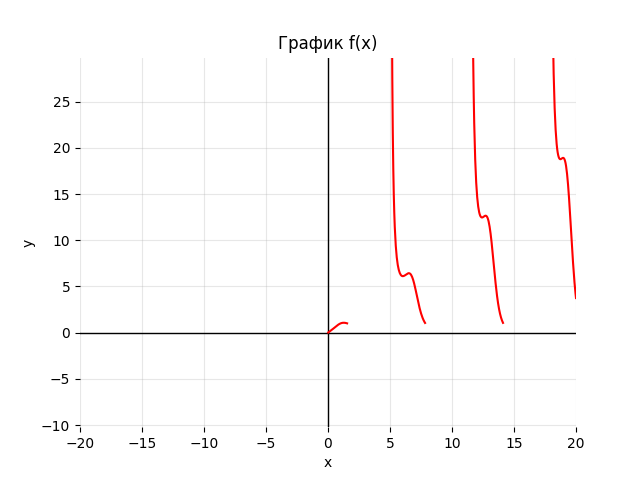
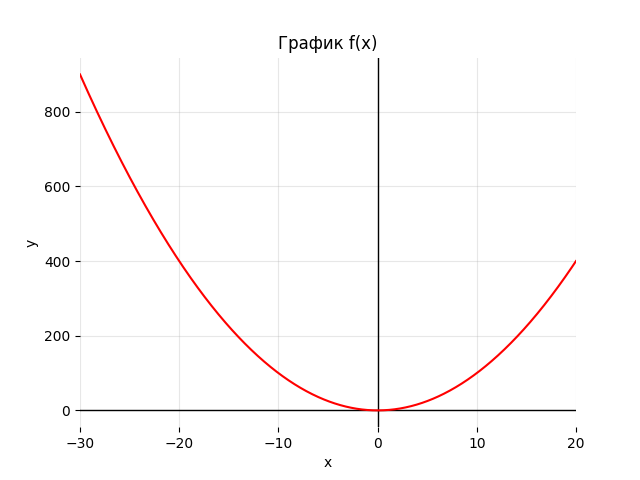
Настройки в json
сделал настройки в json файле, хочу исправить наличие лишнего user_data, который можно объединить с файлом настроек пользователей.

diff --git a/bot.py b/bot.py
@@ -9,6 +9,7 @@ import numpy as np
 from src.graph.graph import parse, validate, dichotomy_max, dichotomy_min, graph as build_graph, simple_graph
 import src.graph.graph as graph_module
 from logger import logger
+import json
 
 #===УСЛОВНЫЙ SETUP======================================================================================================
 
@@ -39,7 +40,23 @@ pictures_dir = os.path.dirname(os.path.abspath(__file__))
 user_data = {}
 
 # Настройки пользователя, структура: {chat_id: {'default_a': -20, 'default_b': 10}}
-user_settings = {}
+SETTINGS_FILE = os.path.join(BASE_DIR, "user_settings.json")
+
+def load_settings():
+    if os.path.exists(SETTINGS_FILE):
+        try:
+            with open(SETTINGS_FILE, "r") as f:
+                return json.load(f)
+        except:
+            return {}
+    return {}
+
+def save_settings_file():
+    with open(SETTINGS_FILE, "w") as f:
+        json.dump(user_settings, f, indent=4)
+
+# Загружаем настройки при запуске
+user_settings = load_settings()
 
 # Стартовые значения диапазонов для построения графиков
 DEFAULT_A = -20
@@ -85,9 +102,9 @@ def send_picture_start(message):
     try:
         photo_path = os.path.join(pictures_dir, "src", "pictures", "DICHOTOMY.png")
         with open(photo_path, "rb") as photo:
-            bot.send_photo(message.chat.id, photo, caption = f"👋 Приветствую вас, {message.from_user.first_name}, в GraphBOT!\n\n"
+            bot.send_photo(message.chat.id, photo, caption = f"👋 Приветствую вас, {message.from_user.first_name}, в <b>GraphBOT!</b>\n\n"
                                                             f"Рекомендуем ознакомиться с синтаксисом ввода функции в пункте "
-                                                            f"ℹ Информация")
+                                                            f"ℹ Информация", parse_mode = 'HTML')
     except Exception as e:
         logger.error('Fatal error, command Start: ', e)
 
@@ -102,6 +119,7 @@ def menu_exit():
 #===ВСПОМОГАТЕЛЬНЫЕ ФУНКЦИИ=============================================================================================
 
 def get_default_range(chat_id):
+    chat_id = str(chat_id)
     settings = user_settings.get(chat_id, {})
     a = settings.get('default_a', DEFAULT_A)
     b = settings.get('default_b', DEFAULT_B)
@@ -216,7 +234,16 @@ def save_settings(message):
             bot.register_next_step_handler(message, save_settings)
             return
 
-        user_settings[message.chat.id] = {'default_a': a, 'default_b': b}
+        # Сохранение в json файл информации о пользователе
+        chat_id = str(message.chat.id)
+
+        user_settings[chat_id] = {
+            'default_a': a,
+            'default_b': b
+        }
+
+        save_settings_file()
+
         bot.send_message(message.chat.id,
                          f"✅ <b>Диапазон обновлён:</b> <code>[{a}; {b}]</code>",
                          parse_mode='HTML',

diff --git a/src/graph/graph.py b/src/graph/graph.py
@@ -243,11 +243,11 @@ def graph(i, func, a, b, save_dir='./imgs'):
     ax.set_ylabel('y')
     ax.set_xlim(a, b)
 
-    # Смотрим насколько большое значение у фунукции и чуть корректирует масштаб
-    finite_y = y[np.isfinite(y)]
-    if len(finite_y) > 0:
-        half = (b - a) / 2
-        ax.set_ylim(function(c) - half, function(c) + half)
+    # # Смотрим насколько большое значение у фунукции и чуть корректирует масштаб
+    # finite_y = y[np.isfinite(y)]
+    # if len(finite_y) > 0:
+    #     half = (b - a) / 2
+    #     ax.set_ylim(function(c) - half, function(c) + half)
 
     # в случае если папки не будет, эта штука создаст папку сама с назв. imgs
     os.makedirs(save_dir, exist_ok=True)
@@ -271,12 +271,12 @@ def simple_graph(i, func, a, b, save_dir='./imgs'):
     ax.set_ylabel('y')
     ax.set_xlim(a, b)
 
-    # Смотрим насколько большое значение у фунукции и чуть корректирует масштаб
-    finite_y = y[np.isfinite(y)]
-    if len(finite_y) > 0:
-        y_center = np.median(finite_y)
-        half = (b - a) / 2
-        ax.set_ylim(y_center - half, y_center + half)
+    # # Смотрим насколько большое значение у фунукции и чуть корректирует масштаб
+    # finite_y = y[np.isfinite(y)]
+    # if len(finite_y) > 0:
+    #     y_center = np.median(finite_y)
+    #     half = (b - a) / 2
+    #     ax.set_ylim(y_center - half, y_center + half)
 
     os.makedirs(save_dir, exist_ok=True)
     path = os.path.join(save_dir, f'{i}.png')
